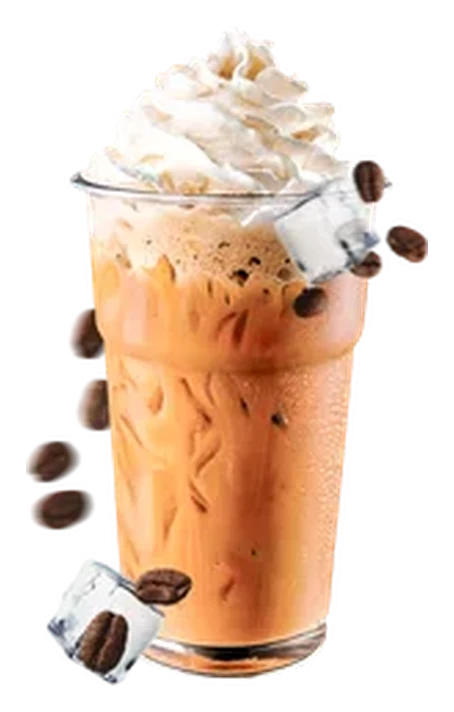
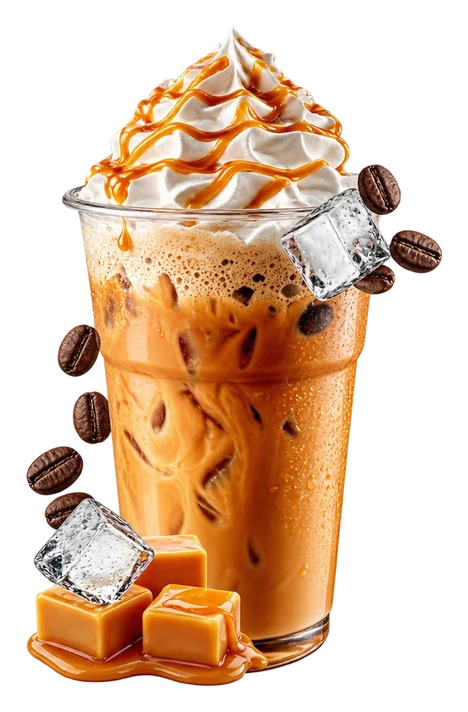
Lepší foto kávy v úvodu i v nabídce
Nové karamelové frappé: průhledný výřez 669x1061, podstatně ostřejší než
dosavadní frappé z 318px sady.

V úvodu nahradilo staré frappé vedle kornoutu. Do karty v nabídce je
výřez podložený růžovou dlaždicí 4:3 s měkkým stínem — karta má rámeček
jako ostatní fotky, ale sklenice v něm stojí jako produktový snímek.

diff --git a/index.html b/index.html
@@ -101,7 +101,7 @@
       </div>
 
       <figure class="uvod__bok uvod__bok--vpravo" data-hloubka="-24">
-        <img src="assets/img/hero-frappe.webp" alt="Ledová káva frappé se šlehačkou" width="454" height="712" loading="lazy">
+        <img src="assets/img/hero-frappe.webp" alt="Karamelové ledové frappé se šlehačkou" width="468" height="712" loading="lazy">
       </figure>
     </div>
 
@@ -185,7 +185,7 @@
 
         <article class="polozka" data-glare>
           <figure class="polozka__foto">
-            <img src="assets/img/frappe.webp" alt="Frappé se šlehačkou a zmrzlina v misce" width="640" height="640" loading="lazy">
+            <img src="assets/img/nabidka-frappe.webp" alt="Karamelové ledové frappé se šlehačkou" width="1200" height="900" loading="lazy">
             <span class="znacka">k&nbsp;posezení</span>
           </figure>
           <div class="polozka__text">
